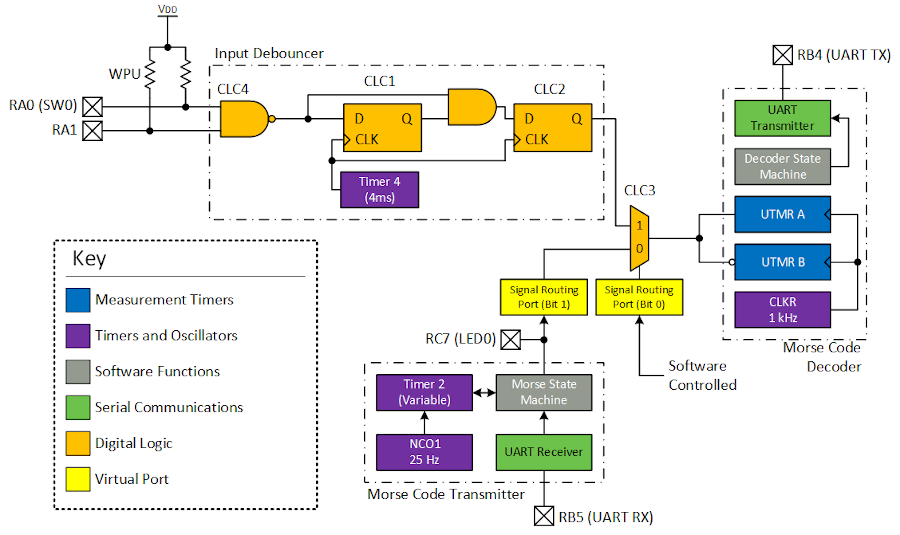
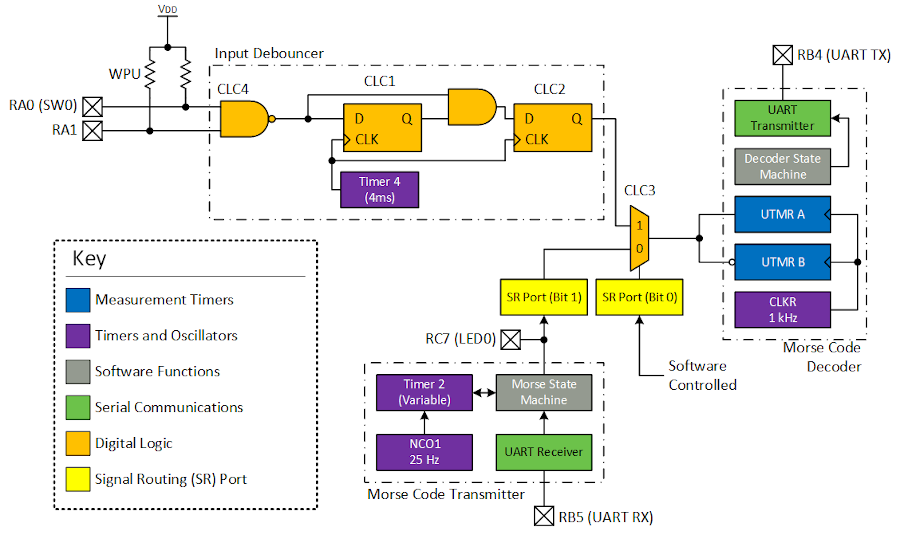
MPAE-15645: Edits to README. Updated graphic

Changed region(s): [[0.0933, 0.8673, 0.28, 0.9271], [0.56, 0.5383, 0.7778, 0.5981]]

diff --git a/README.md b/README.md
@@ -61,7 +61,7 @@ In Morse code, dot and dash are differentiated by the length of their on time. A
 - Letter Break
 - Word Break
 
-For both simplicity and efficency, the state machine for the transmitter only is called when the transmitter state *could* change, as shown in the picture below, in red. Timer 2 is set up as a one-shot timer, with the period set by the state machine before starting. 
+For both simplicity and efficency, the state machine for the transmitter only is called when the transmitter state *could* change, as shown in the picture below, in red. Timer 2 is set up as a one-shot timer, with the period set by the state machine before starting. The output is assigned to both the LED and to a bit of the Signal Routing (SR) port peripheral.  
 
 ![TX Call Diagram](./images/txCallDiagram.png)  
 
@@ -73,7 +73,7 @@ The input debouncer utilized in this example is the 2 CLC configuration discusse
 
 ### Receiver Multiplexer
 
-For flexibility, this demo has two inputs. The default input is to connect the transmitter output to the receiver. Since the transmitter has tight timings, the receiver will always process the message correctly. The other input option is an external (debounced) input. This allows the user to decode their own entered message using the pushbutton on the Curiosity Nano or another signal source.
+For flexibility, this demo has two inputs. The default input is to connect the transmitter output to the receiver. Since the transmitter has tight timings, the receiver will always process the message correctly. The other input option is an external (debounced) input. This allows the user to decode their own entered message using the pushbutton on the Curiosity Nano or another signal source. To select between the two inputs, a bit from the SR Port is used. The SR port can be written to by the application like a normal I/O port. 
 
 To implement the multiplexer in the CLC, logic equivalent to the following is used.
 
@@ -81,12 +81,12 @@ To implement the multiplexer in the CLC, logic equivalent to the following is us
 
 ### Receiver and Decoder
 
-#### Universial Timers (UTMR)
-Universial Timers (UTMR) are used to receive and decode Morse code. The UTMRs are 16-bit timers with advanced start/stop/reset capabilities. When a rising edge occurs on the input to the UTMR, the timer starts and resets it's count. On the next edge (falling), the timer will stop and capture the current count. This generates a Capture Interrupt.
+#### Universal Timers (UTMR)
+Universal Timers (UTMR) are used to receive and decode Morse code. The UTMRs on this device are 16-bit timers with advanced start/stop/reset capabilities. When a rising edge occurs on the input to the UTMR, the timer starts and resets it's count. On the next edge (falling), the timer will stop and capture the current count. This generates a Capture Interrupt. Within a single UTMR, there are multiple Timer Units (TU). 
 
 If the pulse remains HIGH for longer than the timeout period set for the UTMR, the UTMR will reset to 0, and generate a PR Match Interrupt. In the PR Match Interrupt Service Routine (ISR), the UTMR is manually stopped to prevent more interrupts from being triggered. The UTMR is re-enabled shortly after, in the state machine.
 
-**Note: UTMR B uses inverted logic to UTMR A, but is otherwise identical.**
+**Note: UTMR TU16B uses inverted logic to UTMR TU16A, but is otherwise identical.**
 
 #### Processing Data  
 Each interrupt from the UTMR is used to move the internal decoder state machine to the next state. In most cases, the sequence received would be:
